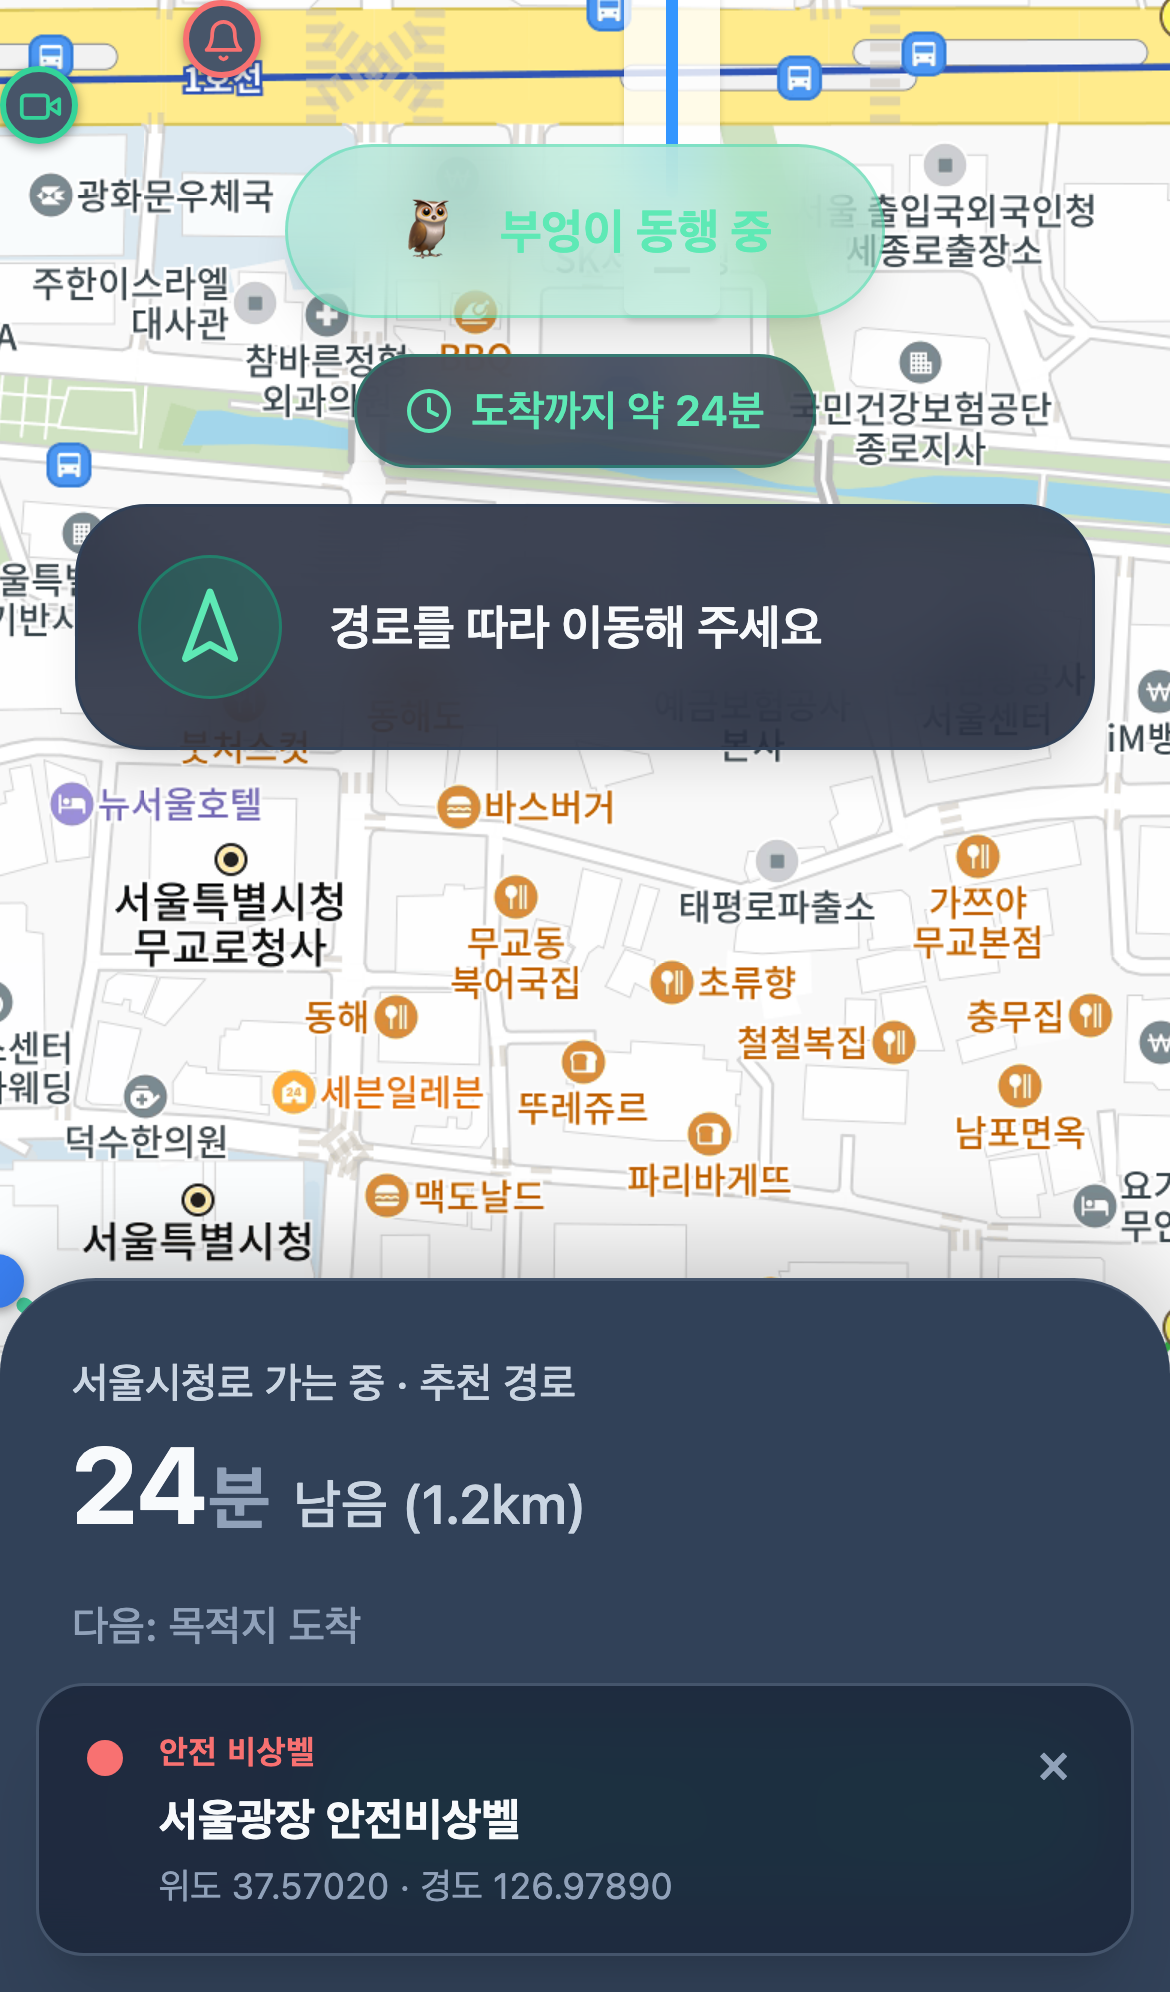
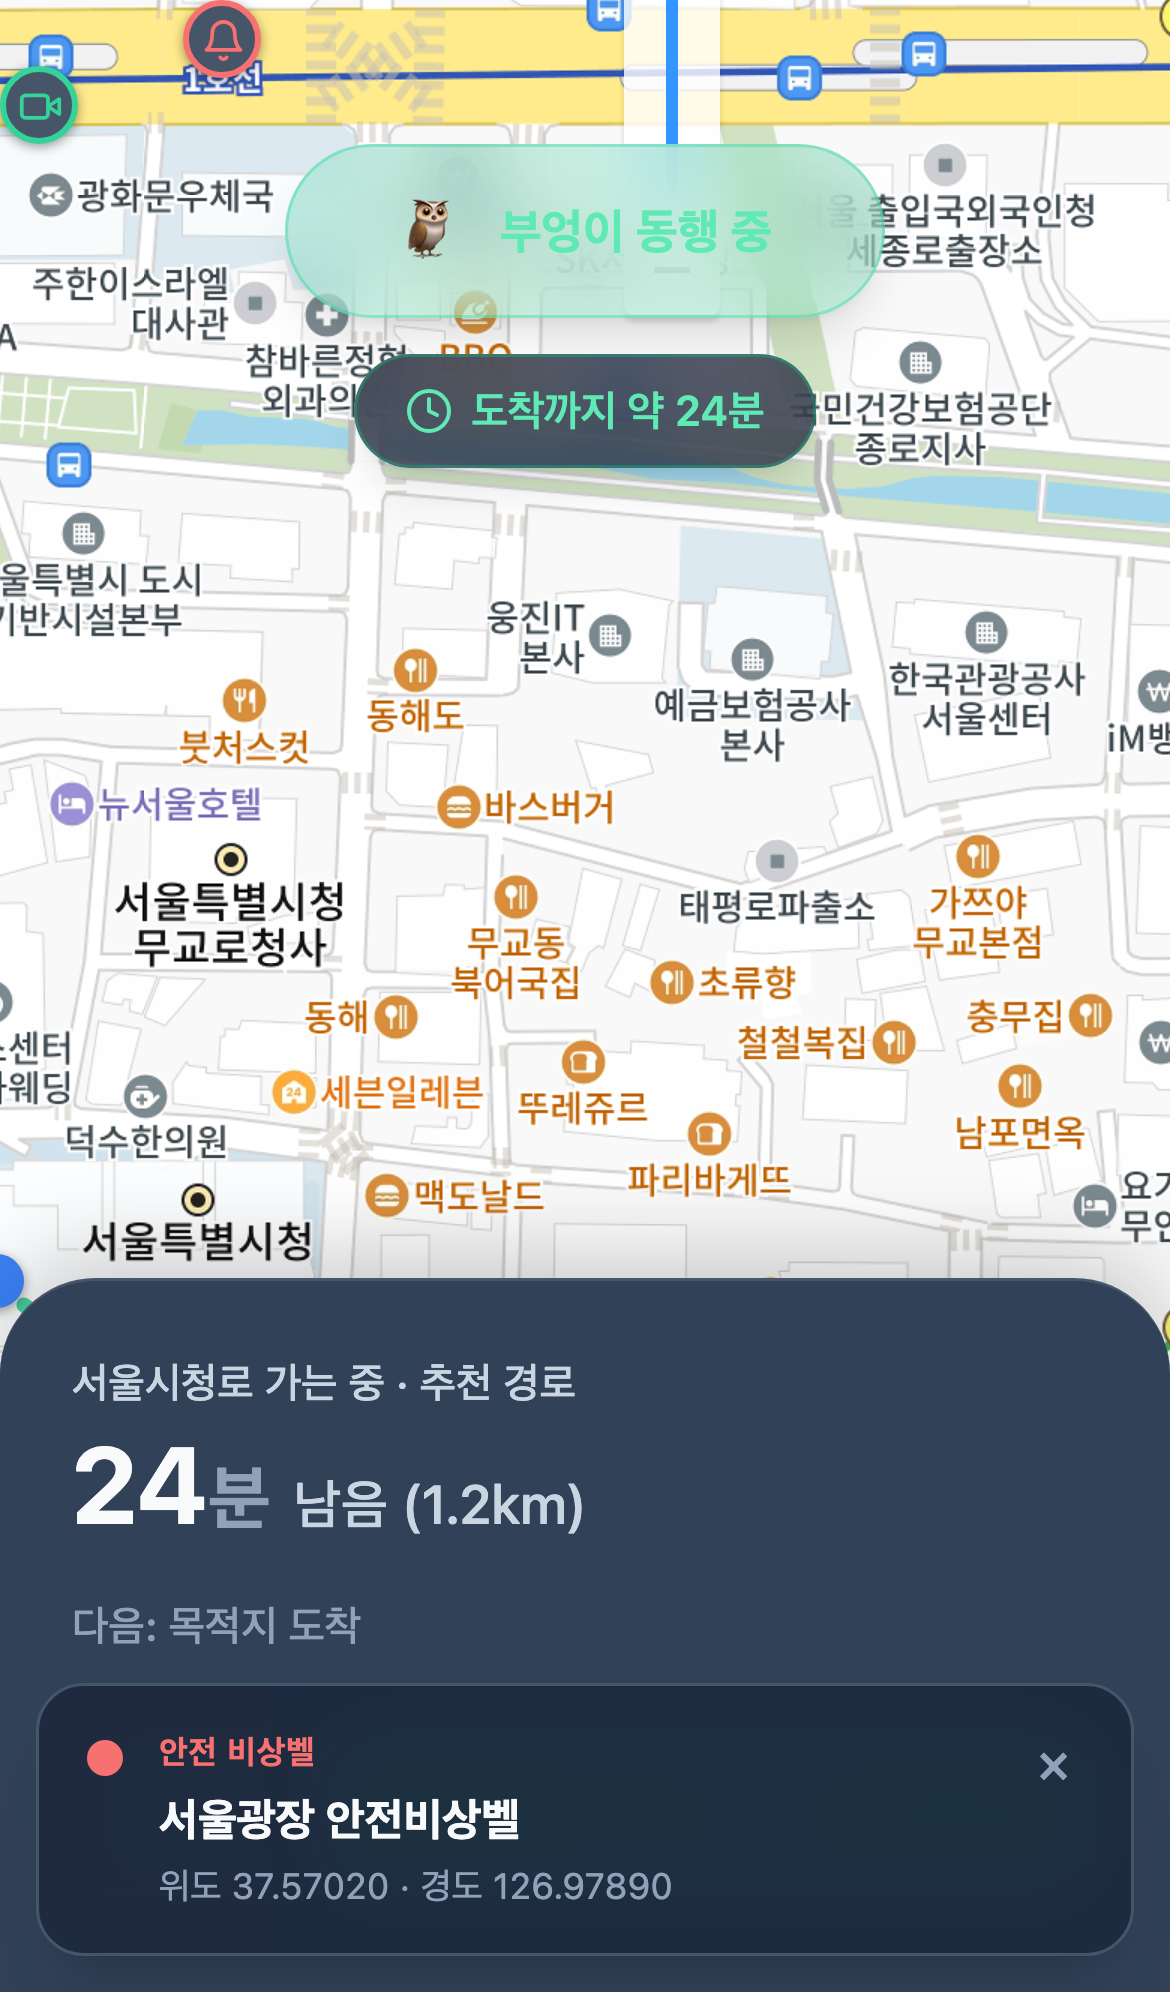
fix(bueongi/navigate): "경로를 따라 이동해 주세요" 기본 안내 팝업 제거
턴바이턴 단계(currentStep)가 없을 때 뜨던 기본 안내 카드를 제거하고,
실제 단계가 있을 때만 안내 카드를 표시하도록 변경. 캡처 스샷도 갱신.

Changed region(s): [[0.0615, 0.249, 0.9538, 0.4046]]

diff --git a/src/app/pages/Navigation.tsx b/src/app/pages/Navigation.tsx
@@ -249,24 +249,21 @@ export function NavigationScreen() {
           <EtaBadge minutes={minutesLeft} />
         </div>
 
-        {/* 현재 단계 안내 카드 — 큰 방향 아이콘 + 안내 문구. 단계 없으면 기본 메시지. */}
-        <div className="mt-3 max-w-[340px] mx-auto pointer-events-auto">
-          <div className="bg-slate-900/80 backdrop-blur-md text-slate-50 rounded-[24px] shadow-lg border border-slate-700 px-5 py-4 flex items-center gap-4">
-            <div className="w-12 h-12 rounded-full bg-emerald-500/20 border border-emerald-400/30 flex items-center justify-center shrink-0">
-              <GuideIcon className="w-7 h-7 text-emerald-300" />
-            </div>
-            <div className="min-w-0">
-              {currentStep ? (
-                <>
-                  <p className="text-xl font-bold leading-tight">{guide?.label}</p>
-                  <p className="text-slate-300 text-sm mt-0.5 truncate">{currentStep.description || `${guide?.label} 안내`}</p>
-                </>
-              ) : (
-                <p className="text-base font-semibold leading-tight">경로를 따라 이동해 주세요</p>
-              )}
+        {/* 현재 단계 안내 카드 — 실제 턴바이턴 단계가 있을 때만 표시.
+            (단계 없을 때 뜨던 "경로를 따라 이동해 주세요" 기본 안내 팝업은 제거.) */}
+        {currentStep && (
+          <div className="mt-3 max-w-[340px] mx-auto pointer-events-auto">
+            <div className="bg-slate-900/80 backdrop-blur-md text-slate-50 rounded-[24px] shadow-lg border border-slate-700 px-5 py-4 flex items-center gap-4">
+              <div className="w-12 h-12 rounded-full bg-emerald-500/20 border border-emerald-400/30 flex items-center justify-center shrink-0">
+                <GuideIcon className="w-7 h-7 text-emerald-300" />
+              </div>
+              <div className="min-w-0">
+                <p className="text-xl font-bold leading-tight">{guide?.label}</p>
+                <p className="text-slate-300 text-sm mt-0.5 truncate">{currentStep.description || `${guide?.label} 안내`}</p>
+              </div>
             </div>
           </div>
-        </div>
+        )}
       </motion.div>
 
       <div className="flex-1 w-full h-full relative">
